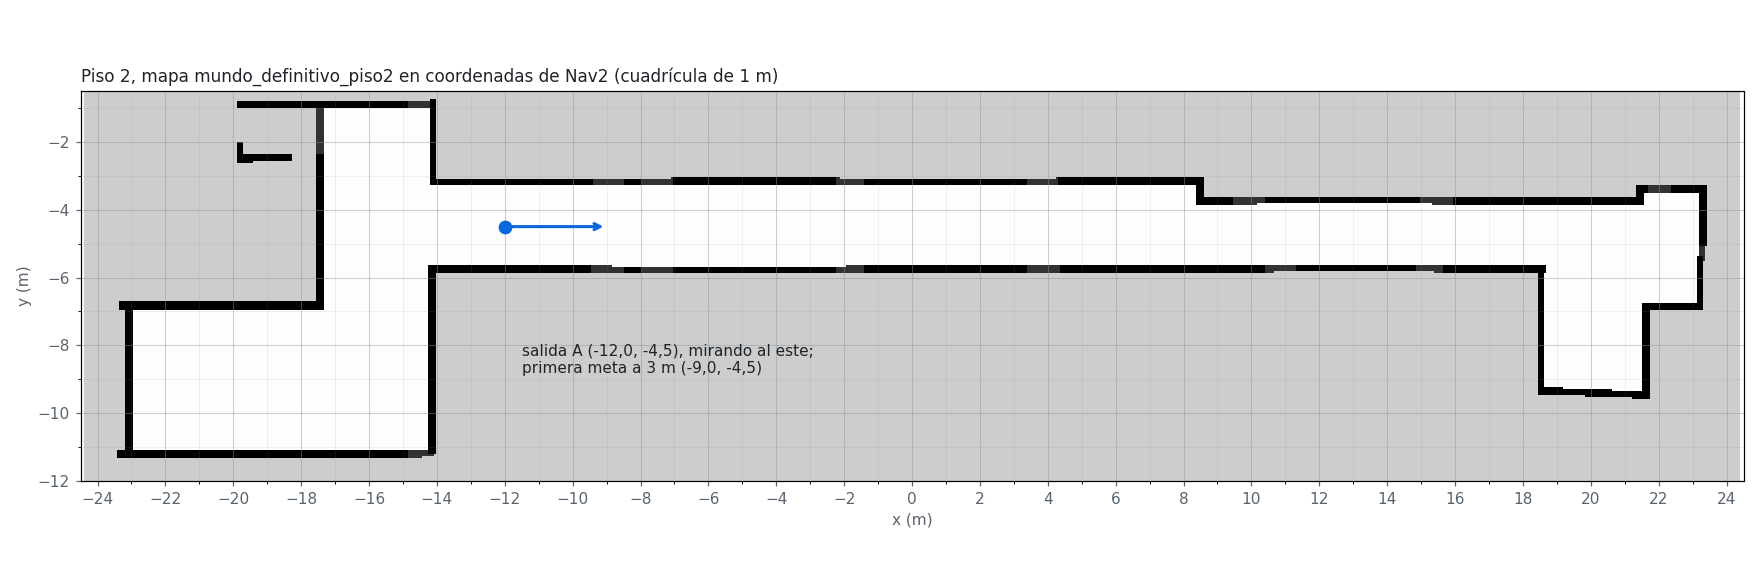
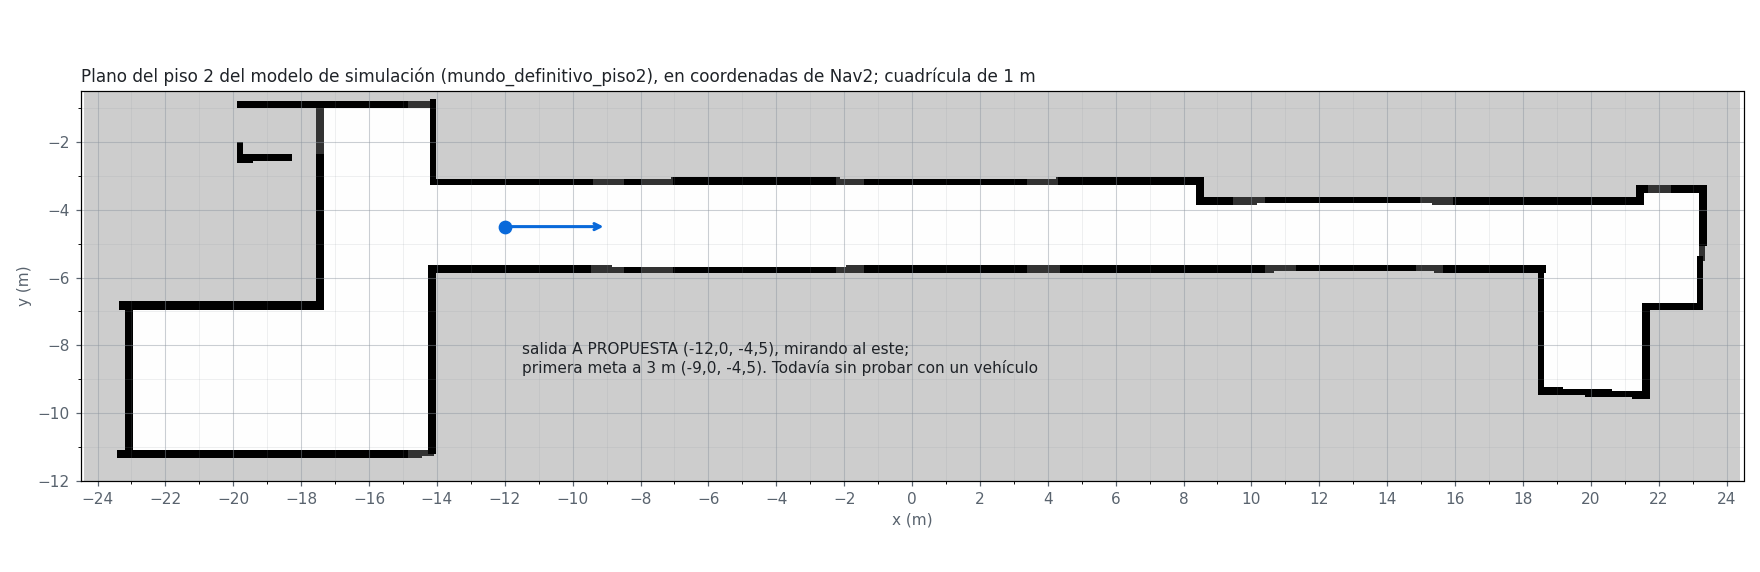
Corrección: los vehículos todavía no han estado en los pasillos del modelo; la prueba con el mapa simulado es un plan

Changed region(s): [[0.0312, 0.1189, 0.5938, 0.1486], [0.2812, 0.5944, 0.5938, 0.6538]]

diff --git a/ESTADO.md b/ESTADO.md
@@ -10,7 +10,7 @@
 |---|---|
 | **Semana del cronograma** | S22 de 32 — **cerrada, con su criterio cumplido y con evidencia, no con declaración.** El cronograma pedía *«desde un teléfono se selecciona origen y destino, y el sistema completa el guiado con relevo en simulación sin intervención manual»*, y eso ocurrió el **2026-09-10**: `piso1_etm2` → `piso2_aula_302` operada desde un móvil real, con los dos robots vivos y relevo entre niveles, registrada en [`S22_RF20_telefono_C_02.json`](Documentos/Evidencia/registros/S22_RF20_telefono_C_02.json) con `exito: true` y `c3_relevo: true`. **Lo que la semana no consiguió, y hay que decirlo con el mismo énfasis: el G2 volvió a quedarse sin resultado.** La salida del martes 8 produjo cuatro bags y cuatro mapas rechazados, así que el **GO/NO-GO sigue sin resolverse por segunda semana consecutiva**, y esta vez ya no por olvido de calendario sino porque el pasillo no da mapa |
 | **Semana en curso** | **S24 (21–27 sep) — la primera semana con el código congelado.** El tag `v0.4-implementacion-congelada` se puso el 18 de septiembre, así que lo que entra ya no es funcionalidad nueva sino **medición sobre los vehículos reales y escritura**. El trabajo está acotado en [`MAPA_TRABAJO_RESTANTE.md`](Documentos/MAPA_TRABAJO_RESTANTE.md) y gobernado por [`ACTA_GO_NOGO.md`](Documentos/ACTA_GO_NOGO.md), resuelta el lunes 21 como **GO pleno** con seis compuertas. **De esas seis ya hay dos alcanzadas, las dos el martes 22: G-1 (actuación) en los dos vehículos —el mismo día se recuperó `amss-jgm9`, que se había dado por averiado— y G-4 (dos vehículos y el coordinador en un mismo grafo), esta última diecisiete días antes de su corte.** G-4 se pudo adelantar porque no depende de la odometría, y con ella deja de estar en la ruta crítica la única compuerta capaz de tumbar el GO pleno por arquitectura y no por sensor. **La ruta crítica sigue siendo la misma y no se ha movido: publicar `odom → base_link` en el vehículo** (compuerta G-2). El DeepRacer no lleva encoders y las dos plantas medidas dan a rf2o por debajo del umbral que ya fracasó, así que la decisión de fondo —fiduciales tipo AprilTag frente a cambiar de sitio— está pendiente de los directores y lleva dos aplazamientos. **Corte C-0: viernes 25 de septiembre** |
-| **Fecha de corte** | 2026-09-29 (martes) — entrada entre semana, no corte formal: ensayo B0 con `amss-jgm9`, con L2 y L3 hechos y los arreglos instalados en los dos carros, entre ellos que el puente ya no da tracción cero por debajo de 0,40 m/s; AMCL no se localizó sobre un mapa de una sola pasada, y se decide probar Nav2 en el pasillo con el mapa de la simulación ([`S25_ensayo_laboratorio.md`](Documentos/Evidencia/S25_ensayo_laboratorio.md)). Por la noche, primera sesión de G-2 y G-3 con `amss-ez9n`, sin cerrarlas ([`S25_campana_c1_deepy.md`](Documentos/Evidencia/S25_campana_c1_deepy.md)). La entrada anterior fue el 2026-09-28 (lunes) — entrada entre semana, no corte formal: el director, Armando Mateus, fijó el sitio de la etapa 3, el número de corridas de RF-27 y la tolerancia de llegada ([`ACTA_GO_NOGO.md`](Documentos/ACTA_GO_NOGO.md) §6.1), y el código aplica desde hoy 0,25 m en simulación y 0,5 m en los vehículos. Esa misma noche quedó cerrado el bloque A: los dos carros aislados con su partición. El corte formal de S25 es el viernes 2 de octubre. La entrada anterior fue el 2026-09-25 (viernes) — **corte formal de S24**: se emiten los entregables de **S23 y S24**, en `.tex` para Overleaf y en `.md` para leerlos en el repositorio ([`Entregable_semana_24.md`](Documentos/Entregables/Entregable_semana_24.md), [`Entregable_semana_24.tex`](Documentos/Entregables/Entregable_semana_24.tex)), que faltaban —el último era el de S22—. Entra además porque **la navegación autónoma sobre hardware existe desde la noche del 24-sep** —Jonny, Nav2 + AMCL sobre el mapa que el propio carro construyó— y porque queda montada y ensayada la sesión que convierte esa navegación en G-2 y G-3 ([`GUIA_CAMPANA_NAV2_HARDWARE.md`](Documentos/GUIA_CAMPANA_NAV2_HARDWARE.md)) y **diseñada, con el mecanismo probado en el portátil, la solución a lo que hoy impide el sistema real**: con los dos carros encendidos, una orden mueve los dos ([`DISENO_AISLAMIENTO_DOS_CARROS.md`](Documentos/DISENO_AISLAMIENTO_DOS_CARROS.md)). **La semana 25, día a día, está en [`PLAN_S25.md`](Documentos/PLAN_S25.md)**, y lo que queda de verdad en el §0 de [`MAPA_TRABAJO_RESTANTE.md`](Documentos/MAPA_TRABAJO_RESTANTE.md). La entrada anterior fue el 2026-09-23 (miércoles) — **entrada entre semana, no corte formal**: entra porque retira evidencia propia. Con los dos vehículos encendidos **cada uno graba también el LiDAR del otro**, intercalados, en un bag que parece sano y no avisa; con cuatro confirmaciones independientes, **los cinco bags de la salida del 28-ago quedan retirados**. No hay comprobación en vivo que lo detecte —`Publisher count` da falso negativo los primeros ~5 s y falso positivo después, porque **descubrir no es recibir**—, así que la comprobación se muda al bag ya grabado y `comprobar_movimiento_bag.py` queda instalado y probado en los dos carros. La alarma del caparazón **se abre y se cierra el mismo día**: 190 mm sin caparazón contra 189–190 con él, luego el LiDAR no se movió y la geometría del 21-sep sigue vigente; la única compuerta de geometría abierta es el **yaw**, que el flexómetro no ve. Y ensayar el guion de campo contra el carro encontró **tres defectos mudos** en sus propias órdenes, el peor `Ctrl-C` dejando un grabador huérfano y un `.mcap` de 0 bytes. El corte anterior fue el 2026-09-22 (martes) — **entrada entre semana, no corte formal**: entra porque un hallazgo invalida decisiones ya registradas. La «avería del nodo de servos» de `amss-jgm9` **no existe**: los tiempos de espera venían de que la orden `ros2` corría como `deepracer` contra nodos de AWS que corren como `root`, y Fast DDS no deja escribir sus segmentos de `/dev/shm` a otro usuario — descubre, pero no empareja, y **no avisa**. Medido con un perfil solo-UDPv4, sin privilegios: `node list` de 0 a 14 y `get_calibration` de `124` a `SALIDA=0`. Con el dueño correcto, **G-1 del acta queda alcanzada sobre `amss-ez9n`** y `amss-jgm9` responde igual de bien. El corte anterior fue el 2026-09-21 (lunes) — **entrada entre semana**: se resuelve el GO/NO-GO como **GO pleno** con seis compuertas y sus criterios de reversión escritos antes de correr, y se cierra **R6** con una fe de erratas de S15 en vez de reescribir un informe ya entregado. La entrada anterior fue el 2026-09-19 (sábado) — **entrada de fin de semana, no corte formal**: sin vehículos a mano, se adelanta de S24 a hoy el **capítulo de resultados de la campaña en simulación**, [`RESULTADOS_OE4_SIMULACION.md`](Documentos/RESULTADOS_OE4_SIMULACION.md). Al escribirlo aparece lo que el agregado no decía: **los cuatro fallos de la campaña son un solo modo con nombre** —Nav2 declara `SUCCEEDED` y `/odom` sitúa al vehículo entre 0,269 y 0,345 m del destino—, y ese `SUCCEEDED` **permite atribuir el exceso**: recae sobre el término de estimación de pose del presupuesto de error del §3.3, entre 1,35 y 2,22 veces lo presupuestado, y no sobre la parada del controlador. Queda anotado también que los criterios C1 y C2 no son independientes en este modo. El corte formal anterior fue el 2026-09-18 (viernes) — **corte de S23 y congelación de la implementación**: se pone el tag `v0.4-implementacion-congelada` (hito H7), se cierra la medición de los dos pisos reales —ninguno da información de avance— y se emite [`MAPA_TRABAJO_RESTANTE.md`](Documentos/MAPA_TRABAJO_RESTANTE.md), que acota en un solo documento todo lo que queda hasta la sustentación y establece que **la ruta crítica es una sola: publicar `odom → base_link` en el vehículo**, no la campaña experimental. La entrada anterior fue el 2026-09-16 (miércoles) — **entrada entre semana, no corte formal**: se cierra **R14** con sus siete acciones, dos de ellas ejecutadas en contra de su propio enunciado y con la razón escrita, y se adopta la regla de que **el entregable que el repositorio versiona es la fuente `.tex`** y no el PDF compilado en Overleaf. Lo que deja el día no estaba en el plan: al ir a recomponer los registros para que trajeran el campo nuevo, la comprobación previa mostró que recomponer reescribe `procedencia.commit` en 44 de 44, así que **no se recompone ninguno** — y de paso queda probado que la cadena bag → registro es reproducible. La entrada anterior fue el 2026-09-14 (lunes), cuando se fusionó a `main` el trabajo de Jonny del fin de semana —cancelación de misión y buscador de origen en la HRI—, que cierra el único defecto a la vista del usuario que el corte del viernes dejó abierto, y esa misma tarde se **enuncia y verifica RF-29** con corrida cancelada y corrida de control, con lo que **OE3 pasa a 100 %**. El **corte formal de S22 fue el 2026-09-11 (viernes)**, en la cadencia adoptada el 2026-08-18, y en él se cerraron el avance por objetivo, el camino crítico, los riesgos —con **R12 cerrado** y **R14 abierto**— y la fuente del entregable. El corte anterior fue el 2026-09-08 (martes), también fuera de cadencia, por R8 entre máquinas y la salida de campo del G2 cerrada sin mapa aceptado |
+| **Fecha de corte** | 2026-09-29 (martes) — entrada entre semana, no corte formal: ensayo B0 con `amss-jgm9`, con L2 y L3 hechos y los arreglos instalados en los dos carros, entre ellos que el puente ya no da tracción cero por debajo de 0,40 m/s; AMCL no se localizó sobre un mapa de una sola pasada, y se decide probar más adelante Nav2 en el pasillo con el mapa de la simulación, sin haberlo hecho todavía ([`S25_ensayo_laboratorio.md`](Documentos/Evidencia/S25_ensayo_laboratorio.md)). Por la noche, primera sesión de G-2 y G-3 con `amss-ez9n` en el escenario de las dos cajas, sin cerrarlas ([`S25_campana_c1_deepy.md`](Documentos/Evidencia/S25_campana_c1_deepy.md)). La entrada anterior fue el 2026-09-28 (lunes) — entrada entre semana, no corte formal: el director, Armando Mateus, fijó el sitio de la etapa 3, el número de corridas de RF-27 y la tolerancia de llegada ([`ACTA_GO_NOGO.md`](Documentos/ACTA_GO_NOGO.md) §6.1), y el código aplica desde hoy 0,25 m en simulación y 0,5 m en los vehículos. Esa misma noche quedó cerrado el bloque A: los dos carros aislados con su partición. El corte formal de S25 es el viernes 2 de octubre. La entrada anterior fue el 2026-09-25 (viernes) — **corte formal de S24**: se emiten los entregables de **S23 y S24**, en `.tex` para Overleaf y en `.md` para leerlos en el repositorio ([`Entregable_semana_24.md`](Documentos/Entregables/Entregable_semana_24.md), [`Entregable_semana_24.tex`](Documentos/Entregables/Entregable_semana_24.tex)), que faltaban —el último era el de S22—. Entra además porque **la navegación autónoma sobre hardware existe desde la noche del 24-sep** —Jonny, Nav2 + AMCL sobre el mapa que el propio carro construyó— y porque queda montada y ensayada la sesión que convierte esa navegación en G-2 y G-3 ([`GUIA_CAMPANA_NAV2_HARDWARE.md`](Documentos/GUIA_CAMPANA_NAV2_HARDWARE.md)) y **diseñada, con el mecanismo probado en el portátil, la solución a lo que hoy impide el sistema real**: con los dos carros encendidos, una orden mueve los dos ([`DISENO_AISLAMIENTO_DOS_CARROS.md`](Documentos/DISENO_AISLAMIENTO_DOS_CARROS.md)). **La semana 25, día a día, está en [`PLAN_S25.md`](Documentos/PLAN_S25.md)**, y lo que queda de verdad en el §0 de [`MAPA_TRABAJO_RESTANTE.md`](Documentos/MAPA_TRABAJO_RESTANTE.md). La entrada anterior fue el 2026-09-23 (miércoles) — **entrada entre semana, no corte formal**: entra porque retira evidencia propia. Con los dos vehículos encendidos **cada uno graba también el LiDAR del otro**, intercalados, en un bag que parece sano y no avisa; con cuatro confirmaciones independientes, **los cinco bags de la salida del 28-ago quedan retirados**. No hay comprobación en vivo que lo detecte —`Publisher count` da falso negativo los primeros ~5 s y falso positivo después, porque **descubrir no es recibir**—, así que la comprobación se muda al bag ya grabado y `comprobar_movimiento_bag.py` queda instalado y probado en los dos carros. La alarma del caparazón **se abre y se cierra el mismo día**: 190 mm sin caparazón contra 189–190 con él, luego el LiDAR no se movió y la geometría del 21-sep sigue vigente; la única compuerta de geometría abierta es el **yaw**, que el flexómetro no ve. Y ensayar el guion de campo contra el carro encontró **tres defectos mudos** en sus propias órdenes, el peor `Ctrl-C` dejando un grabador huérfano y un `.mcap` de 0 bytes. El corte anterior fue el 2026-09-22 (martes) — **entrada entre semana, no corte formal**: entra porque un hallazgo invalida decisiones ya registradas. La «avería del nodo de servos» de `amss-jgm9` **no existe**: los tiempos de espera venían de que la orden `ros2` corría como `deepracer` contra nodos de AWS que corren como `root`, y Fast DDS no deja escribir sus segmentos de `/dev/shm` a otro usuario — descubre, pero no empareja, y **no avisa**. Medido con un perfil solo-UDPv4, sin privilegios: `node list` de 0 a 14 y `get_calibration` de `124` a `SALIDA=0`. Con el dueño correcto, **G-1 del acta queda alcanzada sobre `amss-ez9n`** y `amss-jgm9` responde igual de bien. El corte anterior fue el 2026-09-21 (lunes) — **entrada entre semana**: se resuelve el GO/NO-GO como **GO pleno** con seis compuertas y sus criterios de reversión escritos antes de correr, y se cierra **R6** con una fe de erratas de S15 en vez de reescribir un informe ya entregado. La entrada anterior fue el 2026-09-19 (sábado) — **entrada de fin de semana, no corte formal**: sin vehículos a mano, se adelanta de S24 a hoy el **capítulo de resultados de la campaña en simulación**, [`RESULTADOS_OE4_SIMULACION.md`](Documentos/RESULTADOS_OE4_SIMULACION.md). Al escribirlo aparece lo que el agregado no decía: **los cuatro fallos de la campaña son un solo modo con nombre** —Nav2 declara `SUCCEEDED` y `/odom` sitúa al vehículo entre 0,269 y 0,345 m del destino—, y ese `SUCCEEDED` **permite atribuir el exceso**: recae sobre el término de estimación de pose del presupuesto de error del §3.3, entre 1,35 y 2,22 veces lo presupuestado, y no sobre la parada del controlador. Queda anotado también que los criterios C1 y C2 no son independientes en este modo. El corte formal anterior fue el 2026-09-18 (viernes) — **corte de S23 y congelación de la implementación**: se pone el tag `v0.4-implementacion-congelada` (hito H7), se cierra la medición de los dos pisos reales —ninguno da información de avance— y se emite [`MAPA_TRABAJO_RESTANTE.md`](Documentos/MAPA_TRABAJO_RESTANTE.md), que acota en un solo documento todo lo que queda hasta la sustentación y establece que **la ruta crítica es una sola: publicar `odom → base_link` en el vehículo**, no la campaña experimental. La entrada anterior fue el 2026-09-16 (miércoles) — **entrada entre semana, no corte formal**: se cierra **R14** con sus siete acciones, dos de ellas ejecutadas en contra de su propio enunciado y con la razón escrita, y se adopta la regla de que **el entregable que el repositorio versiona es la fuente `.tex`** y no el PDF compilado en Overleaf. Lo que deja el día no estaba en el plan: al ir a recomponer los registros para que trajeran el campo nuevo, la comprobación previa mostró que recomponer reescribe `procedencia.commit` en 44 de 44, así que **no se recompone ninguno** — y de paso queda probado que la cadena bag → registro es reproducible. La entrada anterior fue el 2026-09-14 (lunes), cuando se fusionó a `main` el trabajo de Jonny del fin de semana —cancelación de misión y buscador de origen en la HRI—, que cierra el único defecto a la vista del usuario que el corte del viernes dejó abierto, y esa misma tarde se **enuncia y verifica RF-29** con corrida cancelada y corrida de control, con lo que **OE3 pasa a 100 %**. El **corte formal de S22 fue el 2026-09-11 (viernes)**, en la cadencia adoptada el 2026-08-18, y en él se cerraron el avance por objetivo, el camino crítico, los riesgos —con **R12 cerrado** y **R14 abierto**— y la fuente del entregable. El corte anterior fue el 2026-09-08 (martes), también fuera de cadencia, por R8 entre máquinas y la salida de campo del G2 cerrada sin mapa aceptado |
 | **Fases activas** | Fase 6 — Campaña, análisis y escritura (S24–S28). La Fase 5 (Integración, S18–S23) se cerró con el tag `v0.4-implementacion-congelada` el 18 de septiembre |
 | **Semanas restantes** | **Cero de desarrollo**: la congelación de código fue el 18-sep (S23) y desde entonces no entra funcionalidad nueva, solo campaña, análisis y escritura. Lo que queda son **cuatro semanas de toma de datos**, y su límite no es la sustentación sino el **corte C-3 del viernes 16 de octubre** (S27), después del cual [`ACTA_GO_NOGO.md`](Documentos/ACTA_GO_NOGO.md) no admite más datos: lo que haya ese día es lo que se defiende. Sustentación **S28 (19–25 oct)**, documento final S29–S32 |
 | **Último entregable formal** | Semana 24 ([`Entregable_semana_24.tex`](Documentos/Entregables/Entregable_semana_24.tex) y su versión [`.md`](Documentos/Entregables/Entregable_semana_24.md), escrito en el corte del 25-sep, **adelantado una semana**: el cronograma lo sitúa en S25). El de la Semana 23 ([`.tex`](Documentos/Entregables/Entregable_semana_23.tex), [`.md`](Documentos/Entregables/Entregable_semana_23.md)) se emitió en el mismo corte. **Desde el 2026-09-25 cada entregable se versiona también en Markdown**, que se lee en el repositorio sin compilar y lleva las mismas figuras. El de S22 ([`Entregable_semana_22.tex`](Documentos/Entregables/Entregable_semana_22.tex)) se escribió en el corte del 11-sep. **Desde el 2026-09-16 el entregable que este repositorio versiona es la fuente `.tex`, no el PDF.** El motivo es que la compilación vive fuera: desde el de S18 todos se compilan en **Overleaf** —el equipo no tiene distribución TeX instalada y el logotipo de la portada no está versionado—, de modo que el PDF es un derivado que se produce en otra parte y se sube a la universidad desde allí. Esperar a que ese binario volviera al repositorio dejaba el entregable declarado «pendiente» por un trámite que no añade evidencia ni se puede reproducir con `git clone`. Los de la **Semana 10 a la 21 se quedan como PDF**: ya están versionados y son el entregable de su semana; la regla nueva no los reescribe. El verificador cuenta las dos formas |
@@ -342,7 +342,7 @@ Deben justificarse por escrito en el documento final:
 | 2026-09-28 (tarde) | La tolerancia de llegada queda por condición en el código: 0,25 m en simulación y 0,5 m en los vehículos reales. El coordinador la toma de su parámetro `condicion` (`simulacion` o `hardware`, y un valor inválido lo detiene al arrancar); `componer_registro.py` y `diagnosticar_llegada.py`, de `--banco`. El registrador en vivo sube a 1.1: la clave `llegada_a_025_m` pasa a `llegada_dentro_de_tolerancia` y las métricas llevan `tolerancia_llegada_m`. Pruebas nuevas en `prueba_registrador.py` y `prueba_componer_registro.py`, que además comprueba que las dos tablas coinciden. El acta queda como acuerdo verbal registrado por los autores. En el plan de S25 entran el bloque B2 (pasillo liso con los dos carros, como caracterización) y el paso E0 (llevar el coordinador nuevo a los dos carros). | Decisión del director del 28-sep; el usuario pidió que los dos valores queden fijados en el código, cada uno en su entorno. |
 | 2026-09-28 (Jonny) | Jonny pasa a LaTeX la plantilla del documento final, en `Documentos/DocumentoFinal/`, con el formato de la NTC 1486 que cita la propia plantilla (letra de 12 pt, márgenes de 3 cm arriba y a la izquierda y de 2 cm abajo y a la derecha, interlineado 1,5). Compila en su portátil: 25 páginas en carta, sin avisos. Las instrucciones están en [`COMPILAR.md`](Documentos/DocumentoFinal/COMPILAR.md). | La plantilla recibida en Word contradecía su propio texto normativo; se sigue el texto de la norma. |
 | 2026-09-28 (noche) | Bloque A de S25 cerrado: los dos carros aislados con una partición de comunicaciones cada uno ([`S25_aislamiento_dos_carros.md`](Documentos/Evidencia/S25_aislamiento_dos_carros.md)). La prueba de la partición da 9 de 9 en Jazzy en los dos; cada servicio del fabricante arranca con su perfil; el LiDAR da 6,97 y 6,71 Hz con perfil y nada sin él; con los dos encendidos, 7,14 y 6,70 Hz (el 23-sep, 14,68 Hz mezclados); una orden de dirección con perfil solo mueve su carro y sin perfil no mueve ninguno. `amss-jgm9` pasó a la 192.168.0.104. Nueva herramienta `sonda_direccion.py`, porque `ros2 topic pub` por posiciones no alcanzaba a emparejarse. | Las pruebas las ejecutó Claude por SSH, a pedido del usuario; las observaciones de las ruedas son de Santiago y Jonny. |
-| 2026-09-29 | Ensayo B0 con `amss-jgm9` (racey) ([`S25_ensayo_laboratorio.md`](Documentos/Evidencia/S25_ensayo_laboratorio.md)). La cámara de cada carro cruzaba al otro por el WiFi (~1 MB/s por sentido, pings de 1 a 2 s): entra en la partición, que pasa a 14 entradas. L2 hecho en dos sitios: con escala 0,68 y 0,80 el carro no arranca, con 0,90 sí; en el segundo sitio rf2o dio 3,458 m y el flexómetro 3,39 m. L3 a medias: la cadena de Nav2 funciona y una meta de ocho llegó, pero AMCL no se localizó sobre el mapa de una sola pasada (1σ mediana 0,77 m). Arreglos instalados en los dos carros: el puente ya no da tracción cero entre 0,01 y 0,40 m/s (los retrocesos de recuperación ahora se mueven), controlador a 10 Hz, latido del gestor a 20 s, y tres correcciones de `mapear_conduciendo.sh`, `lanzar_bag.inc` y `extraer_mapa.py`. Portátil Humble a carro Jazzy: un `PoseStamped` llega, un `LaserScan` del carro no se decodifica en el portátil; RViz sirve para mandar metas. Se decide probar Nav2 en el pasillo del piso 2 con `mundo_definitivo_piso2`. Pendiente: L1, el L2 de `amss-ez9n` (sin batería de tracción) y la sesión de G-2 y G-3 esta noche; copiar a los dos carros tres archivos que cambiaron solo en comentarios. | Las pruebas las ejecutó Claude por SSH, a pedido del usuario; las observaciones y el flexómetro son de Santiago y Jonny. IPs reservadas en el router: `amss-ez9n` .102, `amss-jgm9` .104, portátil .103. |
+| 2026-09-29 | Ensayo B0 con `amss-jgm9` (racey) ([`S25_ensayo_laboratorio.md`](Documentos/Evidencia/S25_ensayo_laboratorio.md)). La cámara de cada carro cruzaba al otro por el WiFi (~1 MB/s por sentido, pings de 1 a 2 s): entra en la partición, que pasa a 14 entradas. L2 hecho en dos sitios: con escala 0,68 y 0,80 el carro no arranca, con 0,90 sí; en el segundo sitio rf2o dio 3,458 m y el flexómetro 3,39 m. L3 a medias: la cadena de Nav2 funciona y una meta de ocho llegó, pero AMCL no se localizó sobre el mapa de una sola pasada (1σ mediana 0,77 m). Arreglos instalados en los dos carros: el puente ya no da tracción cero entre 0,01 y 0,40 m/s (los retrocesos de recuperación ahora se mueven), controlador a 10 Hz, latido del gestor a 20 s, y tres correcciones de `mapear_conduciendo.sh`, `lanzar_bag.inc` y `extraer_mapa.py`. Portátil Humble a carro Jazzy: un `PoseStamped` llega, un `LaserScan` del carro no se decodifica en el portátil; RViz sirve para mandar metas. Se decide probar más adelante Nav2 en el pasillo del piso 2 con `mundo_definitivo_piso2`; los carros todavía no han estado en los pasillos del modelo. Pendiente: L1, el L2 de `amss-ez9n` (sin batería de tracción) y la sesión de G-2 y G-3 esta noche; copiar a los dos carros tres archivos que cambiaron solo en comentarios. | Las pruebas las ejecutó Claude por SSH, a pedido del usuario; las observaciones y el flexómetro son de Santiago y Jonny. IPs reservadas en el router: `amss-ez9n` .102, `amss-jgm9` .104, portátil .103. |
 | 2026-09-29 (tarde) | Bloque C1 de S25 hecho en el escritorio: la pila del vehículo admite espacio de nombres. `nav2_hardware.launch.py` con `namespace:=robotN` (nodos bajo `/robotN`, YAML anidado, nueve marcos de Nav2 y tres de slam_toolbox con prefijo, rf2o en `/robotN/odom`, TF identidad `robotN/laser → laser`); `nav2_mapa_guardado.sh` con `NS=robotN` (puente con `/cmd_vel` remapeado, `map_server` y `amcl` bajo el espacio de nombres); `correr_corrida_nav2.sh` graba los tópicos del `--ns`. [`prueba_nav2_hardware_ns.py`](herramientas/prueba_nav2_hardware_ns.py): 39 comprobaciones, y sin espacio de nombres todo igual que en `6ef1642`. Falta C2 en un vehículo. | Sin vehículos: la sesión de campo sigue esta noche. |
 | 2026-09-29 (noche) | Primera sesión de G-2 y G-3, con `amss-ez9n` ([`S25_campana_c1_deepy.md`](Documentos/Evidencia/S25_campana_c1_deepy.md)); `amss-jgm9` se quedó sin batería de la computadora. Los dos carros nivelados con los 15 archivos de la guía. Cuatro corridas de 5 m con escala 0,9: `c1d_01` llegó según Nav2 pero se pasó 1,134 m según `/odom` (0,536 m según AMCL); `c1d_02` abortó en 0,5 s sin moverse porque el planificador no confirmó dentro de los 20 ms de `bt_navigator`; `c1d_03` abortó porque la pose inicial no llegó a AMCL; `c1d_04` no se detuvo y `/odom` saltó a 10,971 m. Arreglos: `default_server_timeout` a 1000 ms (ajuste 6 del lanzador) y `corrida_nav2.py` espera a AMCL; los dos en `amss-ez9n`, pendientes en `amss-jgm9`. G-2 y G-3 sin cerrar: ninguna corrida con flexómetro. Se repite el miércoles; antes, analizar la grabación de `c1d_04`. | Ejecutó Claude por SSH; el sitio y el acompañamiento, Santiago y Jonny. El portátil fue por cable al router, y el router hubo que acercarlo al tramo. |
 

diff --git a/Documentos/Evidencia/S25_ensayo_laboratorio.md b/Documentos/Evidencia/S25_ensayo_laboratorio.md
@@ -17,8 +17,9 @@ en la 192.168.0.104 y el portátil en la 192.168.0.103.
 | L3 | Nav2 sobre ese mapa, una corrida de 2 m | Hecho a medias con `amss-jgm9`: la cadena funciona y una meta de ocho llegó; AMCL no se localizó sobre el mapa de una sola pasada |
 
 Del ensayo salieron los cambios de configuración y de código del §5, instalados en los dos
-vehículos, y la decisión de probar Nav2 en el pasillo del piso 2 con el mapa `mundo_definitivo_piso2`,
-que es el de la simulación (§3.3).
+vehículos, y la decisión de probar más adelante Nav2 en el pasillo del piso 2 con el mapa
+`mundo_definitivo_piso2`, que es el de la simulación (§3.3). Esa prueba no se ha hecho: los vehículos
+todavía no han estado en los pasillos del modelo.
 
 ## 1. Tráfico de la cámara entre los vehículos
 
@@ -113,16 +114,20 @@ Es la inobservabilidad longitudinal ya medida en S22 y S23, ahora en el vehícul
 de una sola pasada recta, con mucha zona sin observar, y a lo largo del recorrido el láser ve casi lo
 mismo en todo el tramo.
 
-### 3.3 Decisión: el mapa de la simulación en el pasillo real
+### 3.3 Decisión pendiente de ejecutar: el mapa de la simulación en el pasillo real
+
+Esta sección registra un plan, no una prueba. Todo lo anterior del §3 se hizo en el segundo sitio,
+sobre el mapa que construyó `amss-jgm9`; ese mapa no tiene relación con el de la simulación, y los
+vehículos todavía no han estado en los pasillos del modelo.
 
 Santiago preguntó si se podían usar los mapas de la simulación. Se decidió probar Nav2 en el pasillo
 del piso 2 con `mundo_definitivo_piso2`, generado de la geometría del mundo, que tiene las medidas
 del edificio. En simulación, navegar con mapa conocido en esos pasillos dio 86,7 % de éxito en 30
-misiones; lo que el pasillo no permite es construir el mapa conduciendo. El mapa ya está en `~/tesis/`
-de los dos vehículos. La salida elegida es (−12,0, −4,5), mirando al este, 2 m al este de la
+misiones; lo que el pasillo no permite es construir el mapa conduciendo. El mapa ya está copiado en `~/tesis/`
+de los dos vehículos. La salida propuesta es (−12,0, −4,5), mirando al este, 2 m al este de la
 apertura al hall.
 
-![Mapa del piso 2 en coordenadas de Nav2, con la salida A y la primera meta](S25_mapa_piso2_salida_A.png)
+![Plano del piso 2 del modelo de simulación en coordenadas de Nav2, con la salida A propuesta; todavía sin probar con un vehículo](S25_mapa_piso2_salida_A.png)
 
 ## 4. Portátil con Humble y vehículo con Jazzy
 

diff --git a/Documentos/Evidencia/S25_campana_c1_deepy.md b/Documentos/Evidencia/S25_campana_c1_deepy.md
@@ -1,8 +1,9 @@
 # Sesión de compuertas G-2 y G-3 con `amss-ez9n` (29 de septiembre, noche)
 
 Registro del bloque B de [`PLAN_S25.md`](../PLAN_S25.md), siguiendo
-[`GUIA_CAMPANA_NAV2_HARDWARE.md`](../GUIA_CAMPANA_NAV2_HARDWARE.md), en el tramo del piso 2 con las
-dos cajas y sobre el mapa [`S24_mapa_pasillo6m_HARDWARE`](S24_mapa_pasillo6m_HARDWARE.yaml). La
+[`GUIA_CAMPANA_NAV2_HARDWARE.md`](../GUIA_CAMPANA_NAV2_HARDWARE.md), en el escenario de las dos cajas
+armado según el §2 de la guía y sobre el mapa [`S24_mapa_pasillo6m_HARDWARE`](S24_mapa_pasillo6m_HARDWARE.yaml).
+No fue en los pasillos del modelo de simulación: los vehículos todavía no han estado en ellos. La
 ejecutó Claude por SSH desde el portátil; Santiago y Jonny armaron el sitio y acompañaron el vehículo.
 Las horas del vehículo van en UTC y las del portátil en la hora local, cinco horas menos.
 
